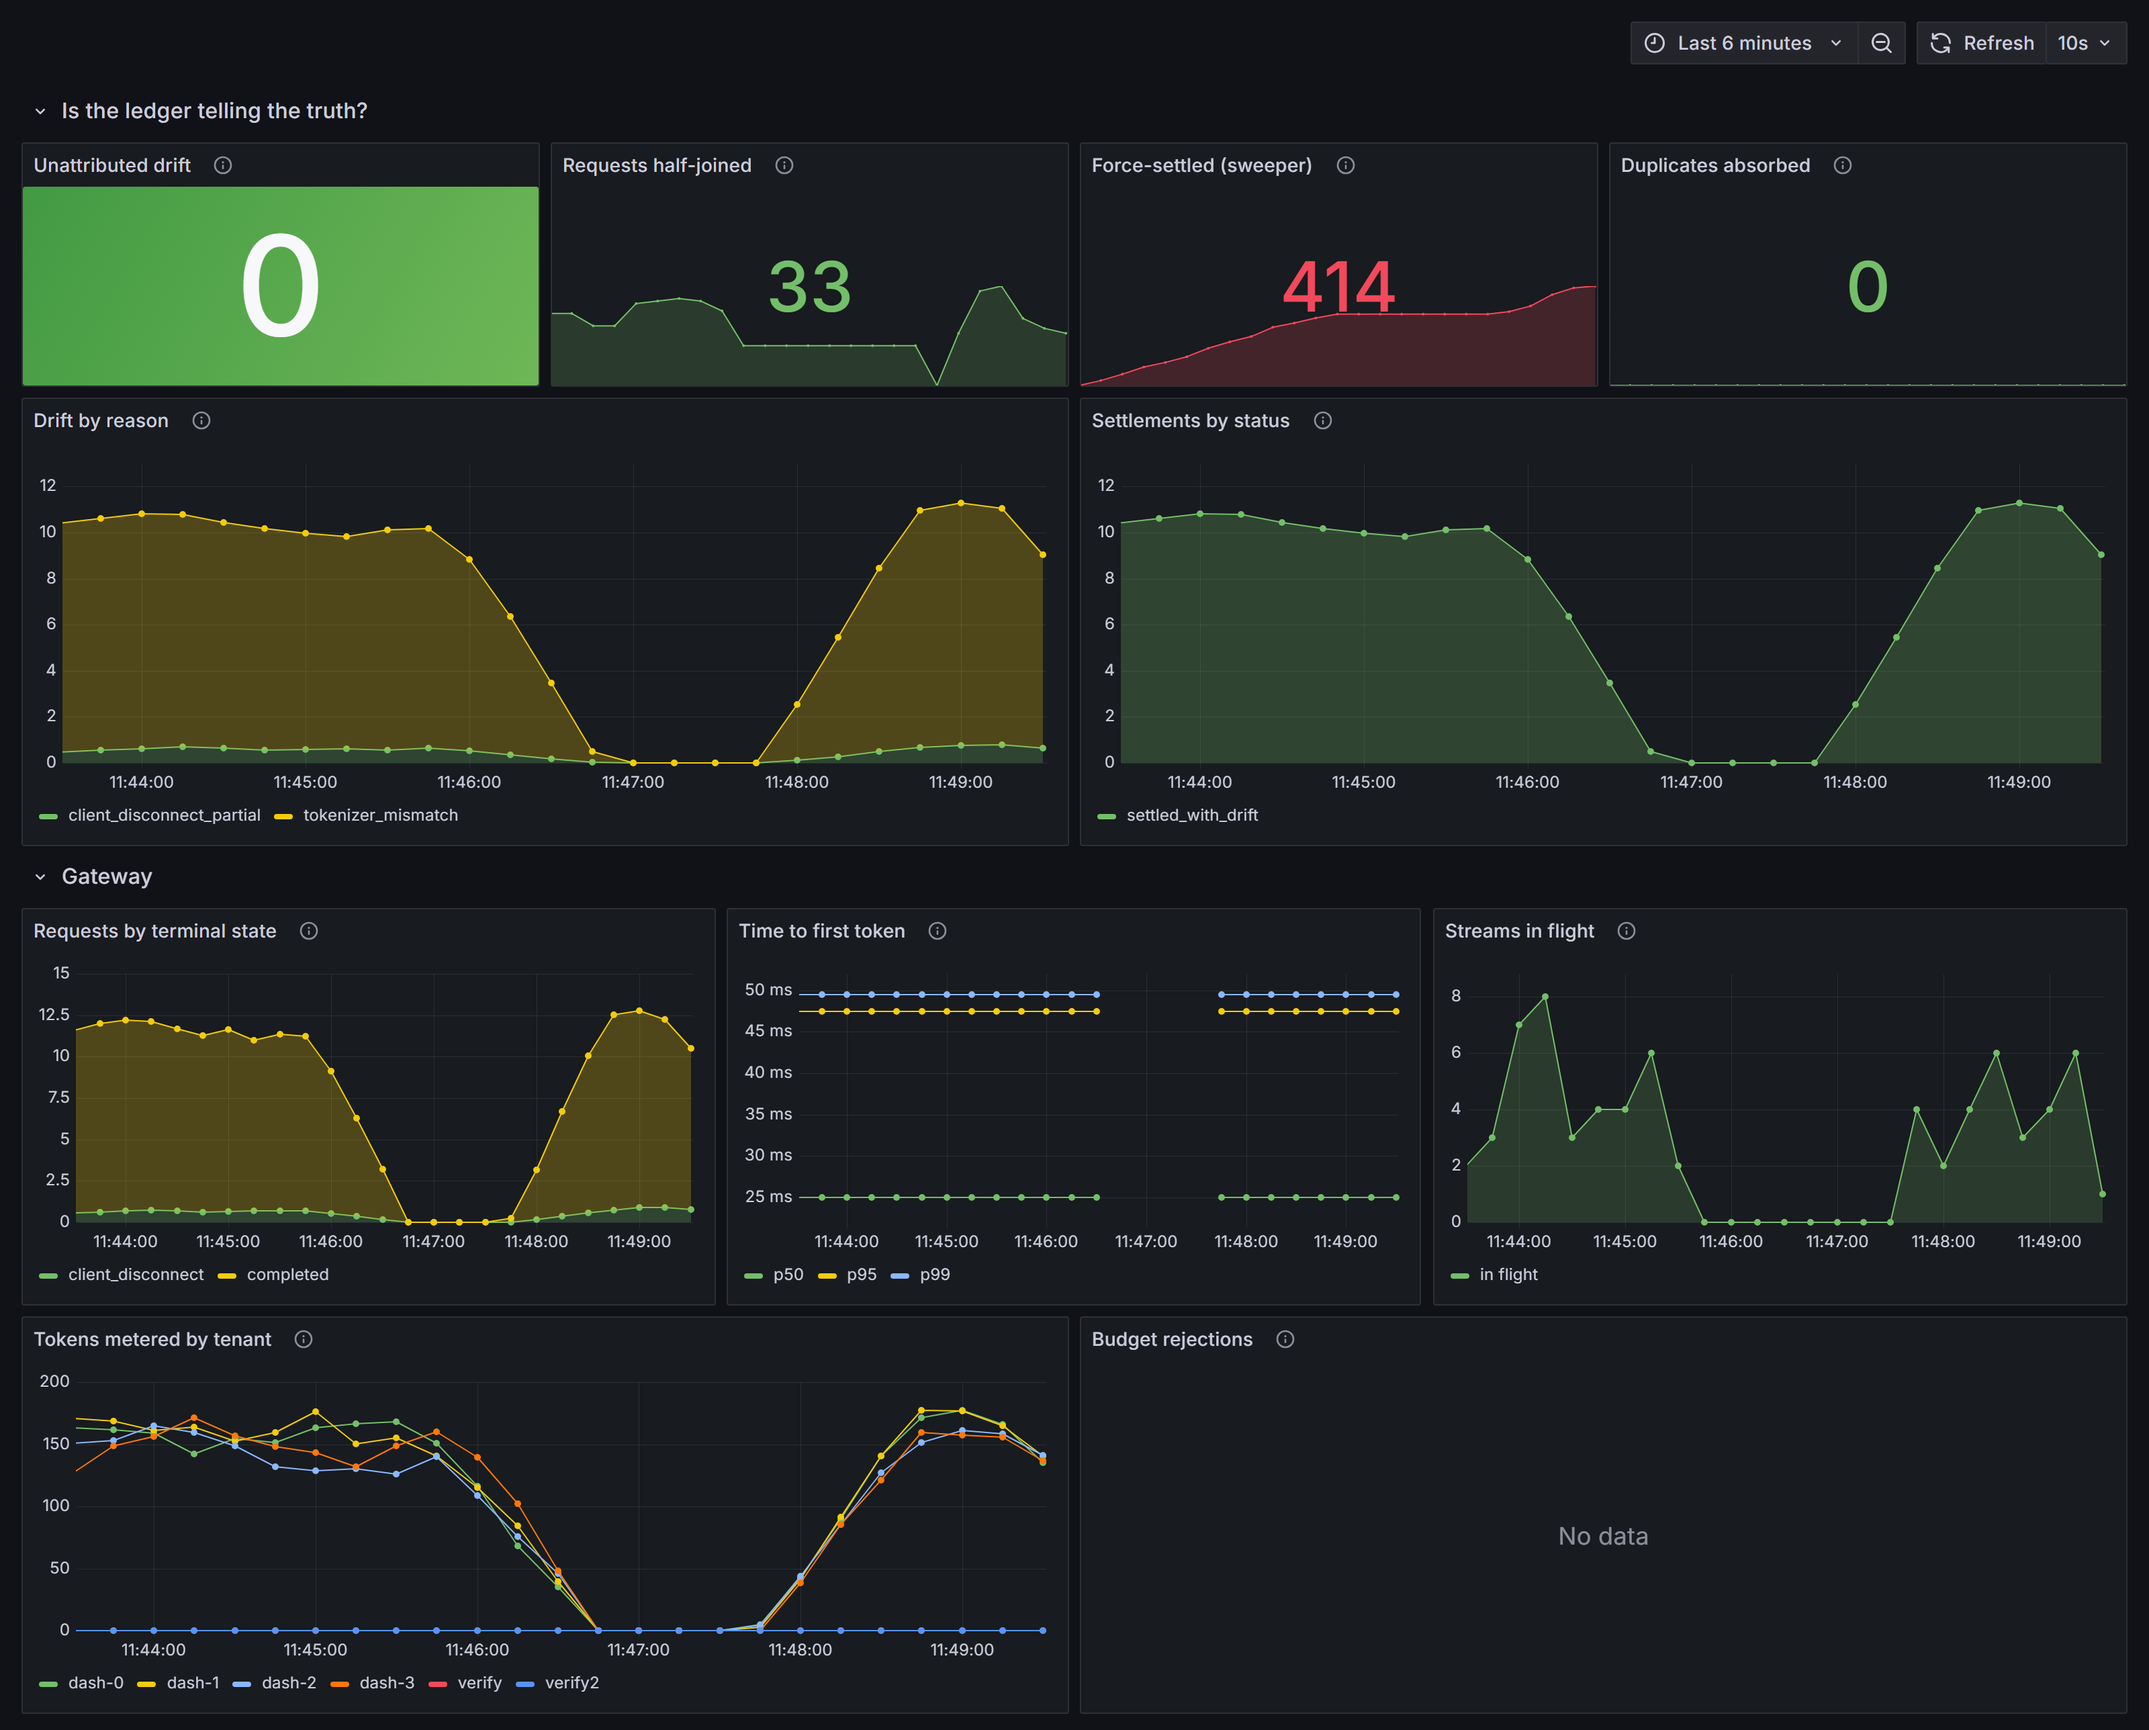
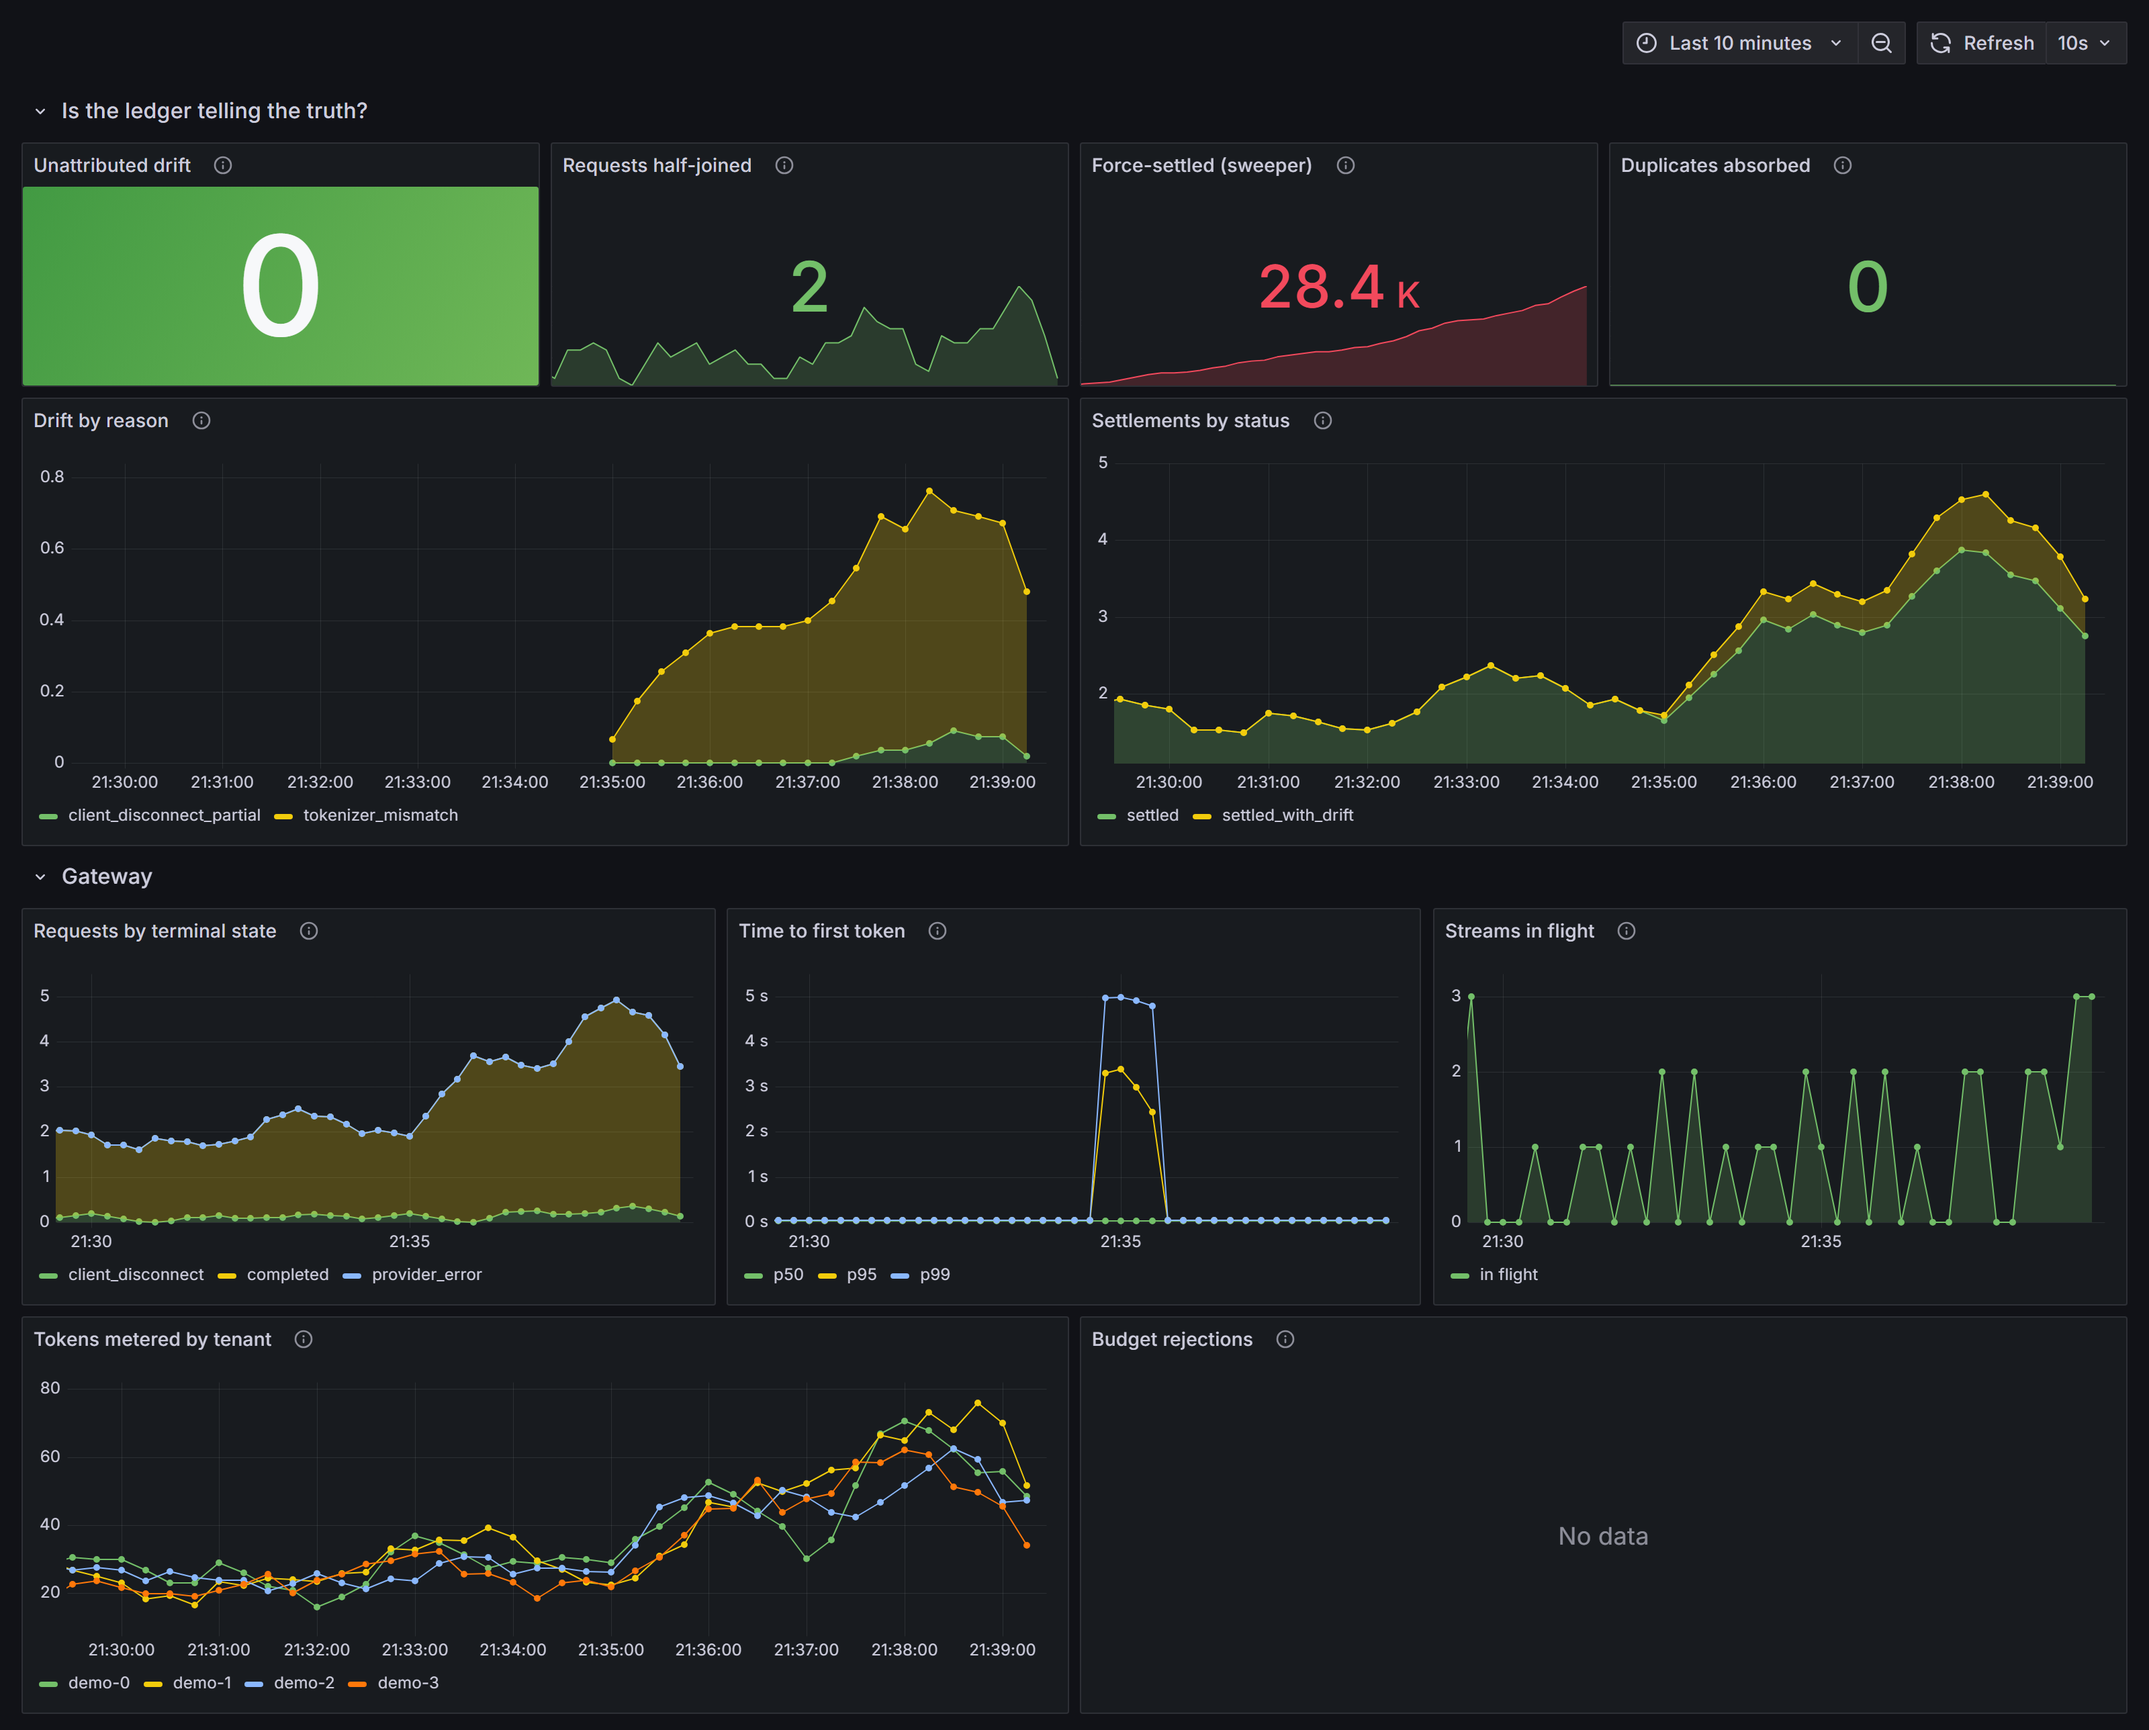
Wire the live dashboard link into the Pages site and README; refresh hero image
The Tailscale Funnel demo is confirmed live (verified in-browser over the public
URL). Swaps the hero screenshot for the realistic-mix view (mostly clean + some
attributed drift, unattributed drift 0) and links the live read-only dashboard,
with the honest caveat that it's up only when the home-server demo box is.

diff --git a/docs/index.html b/docs/index.html
@@ -101,8 +101,11 @@
     </p>
     <div class="cta">
       <a class="btn primary" href="https://github.com/kk10-x/inference-ledger">View the code on GitHub →</a>
+      <a class="btn ghost" href="https://bella.taile86535.ts.net:10000/d/inference-ledger/inference-ledger-reconciliation?kiosk">▶ Live dashboard</a>
       <a class="btn ghost" href="#proof">See the results</a>
     </div>
+    <p class="disclaimer">The live dashboard is a read-only Grafana on a home server, up when the box is —
+      the screenshot below is always current regardless.</p>
   </div>
 </header>
 
@@ -195,7 +198,7 @@
         <h3>▶ Demo tier</h3>
         <p class="muted">Bundled infrastructure (Redpanda, Postgres, Redis) and a mock upstream, so the
           whole system runs on one small box at <b style="color:var(--ink)">zero cost with no API key</b>.
-          This dashboard is that tier, live.</p>
+          The dashboard above is that tier, <a href="https://bella.taile86535.ts.net:10000/d/inference-ledger/inference-ledger-reconciliation?kiosk">running live</a>.</p>
         <p class="mono muted" style="font-size:13px;">docker compose … up · helm install on kind</p>
       </div>
       <div class="tile">

diff --git a/README.md b/README.md
@@ -1,6 +1,6 @@
 # inference-ledger
 
-**[▶ Live project page & dashboard](https://kk10-x.github.io/inference-ledger/)**
+**[▶ Live project page](https://kk10-x.github.io/inference-ledger/)** · [live dashboard](https://bella.taile86535.ts.net:10000/d/inference-ledger/inference-ledger-reconciliation?kiosk) (read-only, up when the demo box is)
 
 An OpenAI-compatible LLM gateway that keeps **two independent token ledgers** and proves they agree.
 
